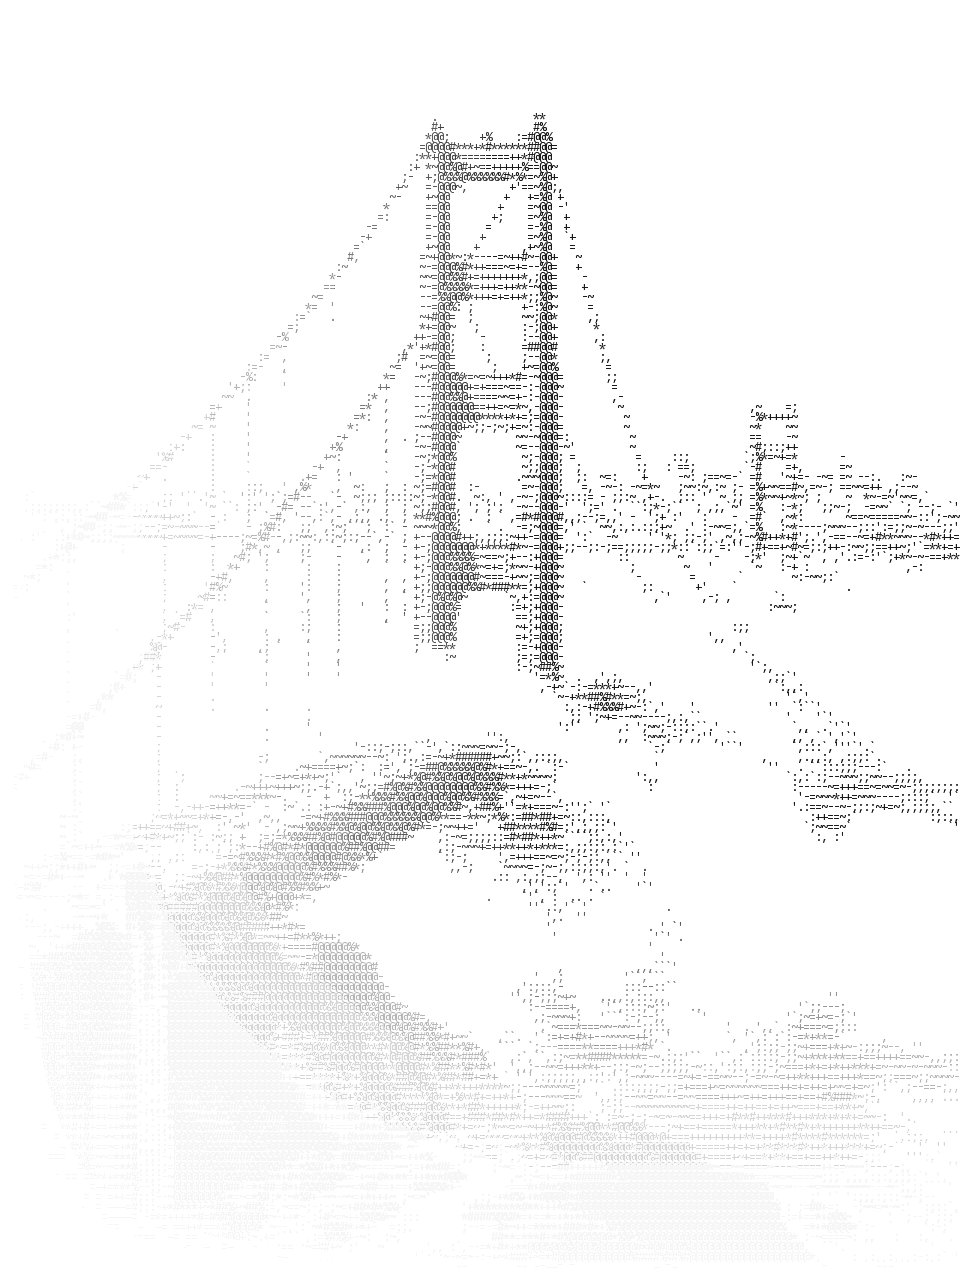
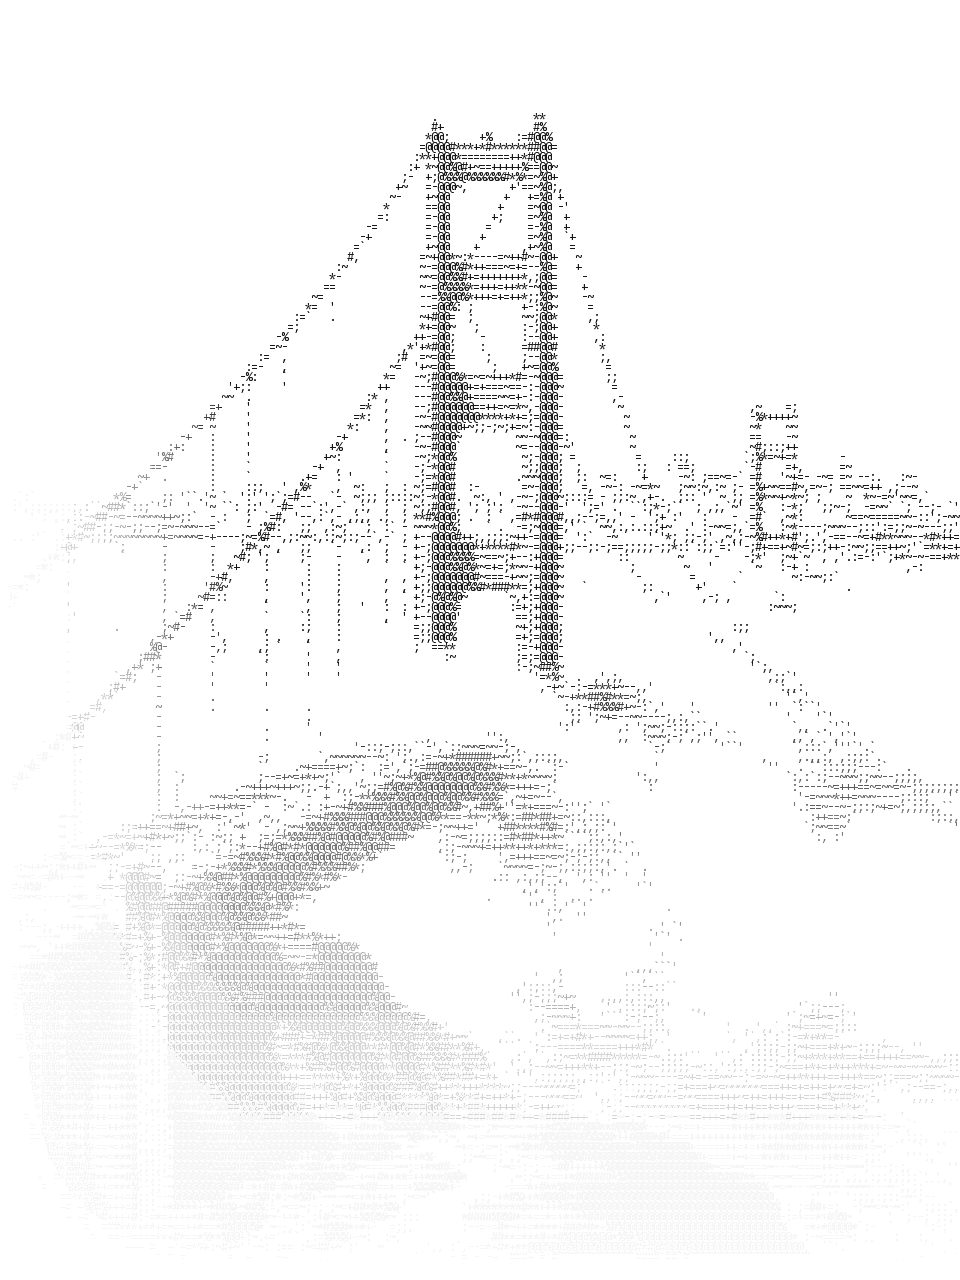
Hero: two-column structure — nav and bottom-anchored copy on the left, full-height ASCII panel with an overlaid product card on the right; meta as a strip below

diff --git a/style.css b/style.css
@@ -30,7 +30,6 @@ html { scroll-behavior: smooth; -webkit-text-size-adjust: 100%; }
 @media (prefers-reduced-motion: reduce) { html { scroll-behavior: auto; } }
 body {
   margin: 0;
-  overflow-x: clip;
   background: var(--paper);
   color: var(--ink);
   font: 400 16px/1.55 var(--sans);
@@ -52,7 +51,7 @@ h3 { font-size: 17px; font-weight: 600; letter-spacing: -0.005em; line-height: 1
   border-right: 1px solid var(--line);
   min-height: 100vh;
 }
-section, .top, .foot { border-bottom: 1px solid var(--line); }
+section, .top, .foot, .hero-grid, .hero-meta { border-bottom: 1px solid var(--line); }
 section { padding: clamp(40px, 6vw, 72px) var(--pad); }
 
 /* Labels and display type */
@@ -72,7 +71,7 @@ section { padding: clamp(40px, 6vw, 72px) var(--pad); }
 }
 .dots span { display: block; }
 .dots span + span { margin-top: 0.125em; }
-h1.dots { font-size: clamp(40px, 9.4vw, 104px); margin: 24px 0 36px; }
+h1.dots { font-size: clamp(40px, 5.2vw, 64px); margin: 20px 0 28px; }
 h2.dots { font-size: clamp(34px, 6vw, 68px); }
 /* Dot-matrix screen: Tiny5 is drawn on a 1/8em pixel grid, so one mask cell per pixel turns every pixel into one dot. */
 .dots span {
@@ -95,16 +94,14 @@ h2.dots { font-size: clamp(34px, 6vw, 68px); }
 
 /* Header */
 .top {
-  position: relative;
-  z-index: 2;
   display: grid;
   grid-template-columns: 1fr auto auto;
   align-items: center;
-  gap: 24px;
+  gap: 18px;
   padding: 18px var(--pad);
 }
-.brand { font: 600 15px/1 var(--sans); letter-spacing: -0.01em; }
-.top nav { display: flex; gap: 22px; font-size: 14px; color: var(--muted); }
+.brand { font: 600 15px/1 var(--sans); letter-spacing: -0.01em; white-space: nowrap; }
+.top nav { display: flex; gap: 14px; font-size: 13px; color: var(--muted); white-space: nowrap; }
 .top nav a:hover { color: var(--ink); }
 .lang {
   font: 500 12px/1 var(--mono);
@@ -114,17 +111,19 @@ h2.dots { font-size: clamp(34px, 6vw, 68px); }
 }
 .lang:hover { text-decoration: none; border-color: var(--ink); }
 
-/* Hero */
-.hero { padding-top: clamp(56px, 9vw, 120px); position: relative; }
-.hero > * { position: relative; z-index: 1; }
-/* ASCII plates: ink on transparent, edges pre-faded to the page */
-.plate-hero { position: absolute; z-index: 0; top: -66px; right: -130px; height: 700px; width: auto; pointer-events: none; }
-.veva-body { display: grid; grid-template-columns: 280px 1fr; gap: 28px; align-items: start; }
-.plate-veva { width: 100%; height: auto; display: block; }
-.plate-step { width: 100%; height: auto; display: block; margin: -6px 0 10px; }
-.plate-contact { width: 100%; height: auto; display: block; margin: -12px 0 12px; }
-.lead { max-width: 58ch; font-size: clamp(18px, 2vw, 21px); line-height: 1.5; margin-bottom: 32px; }
-.ctas { display: flex; flex-wrap: wrap; gap: 12px; margin-bottom: 48px; }
+/* Hero: two columns. Left = nav on top, copy anchored to the bottom. Right = full-height plate with a product card. */
+.hero-grid { display: grid; grid-template-columns: 60% 1fr; grid-template-rows: auto 1fr; min-height: min(760px, calc(100vh - 1px)); }
+.hero-grid .top { grid-column: 1; grid-row: 1; padding-right: 24px; }
+.hero-grid main { display: contents; }
+.hero { grid-column: 1; grid-row: 2; display: flex; flex-direction: column; justify-content: flex-end; padding: 48px var(--pad) 56px; border-bottom: 0; }
+.hero-panel { grid-column: 2; grid-row: 1 / span 2; position: relative; overflow: hidden; border-left: 1px solid var(--line); background: var(--paper-2); }
+.plate-hero { position: absolute; inset: 0; width: 100%; height: 100%; object-fit: cover; object-position: 60% 0; }
+.hero-card { position: absolute; left: 22%; top: 26%; width: 92%; margin: 0; background: var(--paper); border: 1px solid var(--line); box-shadow: 0 24px 60px rgba(17, 17, 17, 0.08); }
+.hero-card figcaption { display: flex; justify-content: space-between; gap: 12px; padding: 10px 14px; border-bottom: 1px solid var(--line); font: 500 11px/1 var(--mono); letter-spacing: 0.04em; text-transform: uppercase; color: var(--muted); }
+.hero-card img { display: block; width: 100%; height: auto; }
+.lead { max-width: 30ch; font-size: clamp(17px, 1.6vw, 19px); line-height: 1.5; margin-bottom: 28px; }
+.ctas { display: flex; flex-wrap: wrap; gap: 12px; }
+.hero-meta { border-left: 0; border-right: 0; border-top: 0; }
 .btn {
   display: inline-block;
   padding: 14px 20px;
@@ -138,6 +137,12 @@ h2.dots { font-size: clamp(34px, 6vw, 68px); }
 .btn.ghost { background: transparent; color: var(--ink); }
 .btn.ghost:hover { background: var(--paper-2); border-color: var(--ink); }
 
+/* ASCII plates in the body sections */
+.veva-body { display: grid; grid-template-columns: 280px 1fr; gap: 28px; align-items: start; }
+.plate-veva { width: 100%; height: auto; display: block; }
+.plate-step { width: 100%; height: auto; display: block; margin: -6px 0 10px; }
+.plate-contact { width: 100%; height: auto; display: block; margin: -12px 0 12px; }
+
 /* Shared-line grids: gap of 1px over the line colour draws every divider once */
 .meta, .tiles, .cards, .also, .qs, .steps, .channels {
   display: grid;
@@ -145,7 +150,7 @@ h2.dots { font-size: clamp(34px, 6vw, 68px); }
   background: var(--line);
   border: 1px solid var(--line);
 }
-.meta > li, .tiles > li, .card, .also > li, .qs > li, .steps > li, .channels > li { background: var(--paper); }
+.meta > li, .tiles > li, .card, .also > li, .qs > li, .steps > li, .channels > li { background: var(--paper); min-width: 0; }
 
 .meta { grid-template-columns: repeat(3, 1fr); }
 .meta > li { display: flex; flex-direction: column; gap: 6px; padding: 16px 18px; font-size: 15px; }
@@ -215,15 +220,22 @@ h2.dots { font-size: clamp(34px, 6vw, 68px); }
 
 /* Responsive */
 @media (max-width: 1000px) {
+  .hero-grid { grid-template-columns: 1fr; grid-template-rows: auto auto 460px; min-height: 0; }
+  .hero-grid .top, .hero { grid-column: 1; }
+  .hero { grid-row: 2; padding-top: 56px; }
+  .hero-panel { grid-column: 1; grid-row: 3; border-left: 0; border-top: 1px solid var(--line); }
+  .hero-card { left: 12%; top: 18%; width: 100%; }
   .tiles { grid-template-columns: repeat(3, 1fr); }
   .also { grid-template-columns: repeat(2, 1fr); }
 }
 @media (max-width: 760px) {
-  .plate-hero { top: -50px; right: 0; height: 280px; opacity: 0.55; }
   .veva-body { grid-template-columns: 1fr; }
   .plate-veva { max-height: 320px; width: auto; max-width: 100%; }
   .top { grid-template-columns: 1fr auto; }
   .top nav { display: none; }
+  .hero-grid { grid-template-rows: auto auto 340px; }
+  h1.dots { font-size: clamp(34px, 9.4vw, 64px); }
+  .lead { max-width: none; }
   .cards, .qs, .steps, .meta { grid-template-columns: 1fr; }
   .tiles, .also { grid-template-columns: 1fr; }
   .fields { grid-template-columns: 1fr; }

diff --git a/scripts/ascii.py b/scripts/ascii.py
@@ -19,7 +19,7 @@ RAMP = " .'`,:;-~=+*#%@"          # light → dark
 
 # name: (source, output size, crop box as fractions (l,t,r,b), mirror, fades (l,t,r,b) as fraction of width/height)
 PLATES = {
-    "hero":    ("hero.jpg",    (960, 1280), (0, 0, 1, 1),        True,  (0.55, 0.0, 0.0, 0.35)),
+    "hero":    ("hero.jpg",    (960, 1280), (0, 0, 1, 1),        True,  (0.25, 0.0, 0.0, 0.5)),
     "veva":    ("veva.jpg",    (720, 960),  (0, 0, 1, 1),        False, (0.15, 0.15, 0.15, 0.25)),
     "step1":   ("step1.jpg",   (800, 600),  (0, 0.12, 1, 0.87),  False, (0.15, 0.15, 0.15, 0.2)),
     "step2":   ("veva.jpg",    (800, 600),  (0.1, 0.05, 0.9, 0.65), False, (0.15, 0.15, 0.15, 0.2)),  # temporary crop until the laptop plate exists
